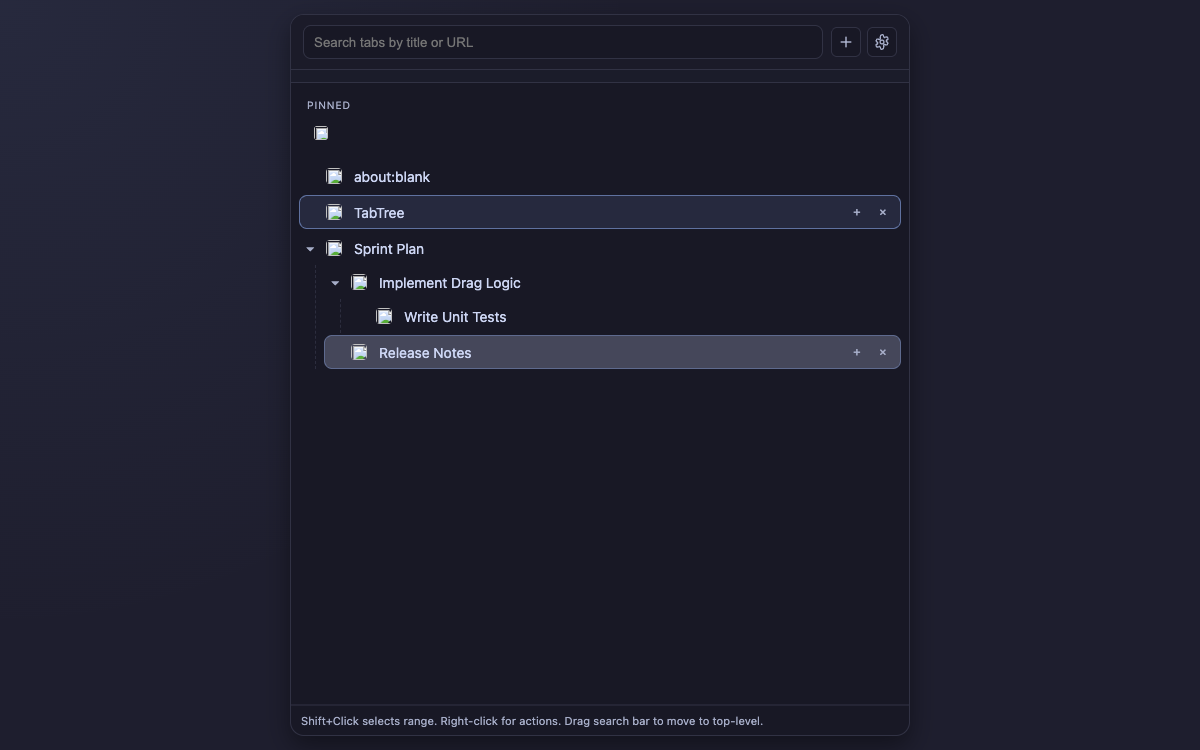
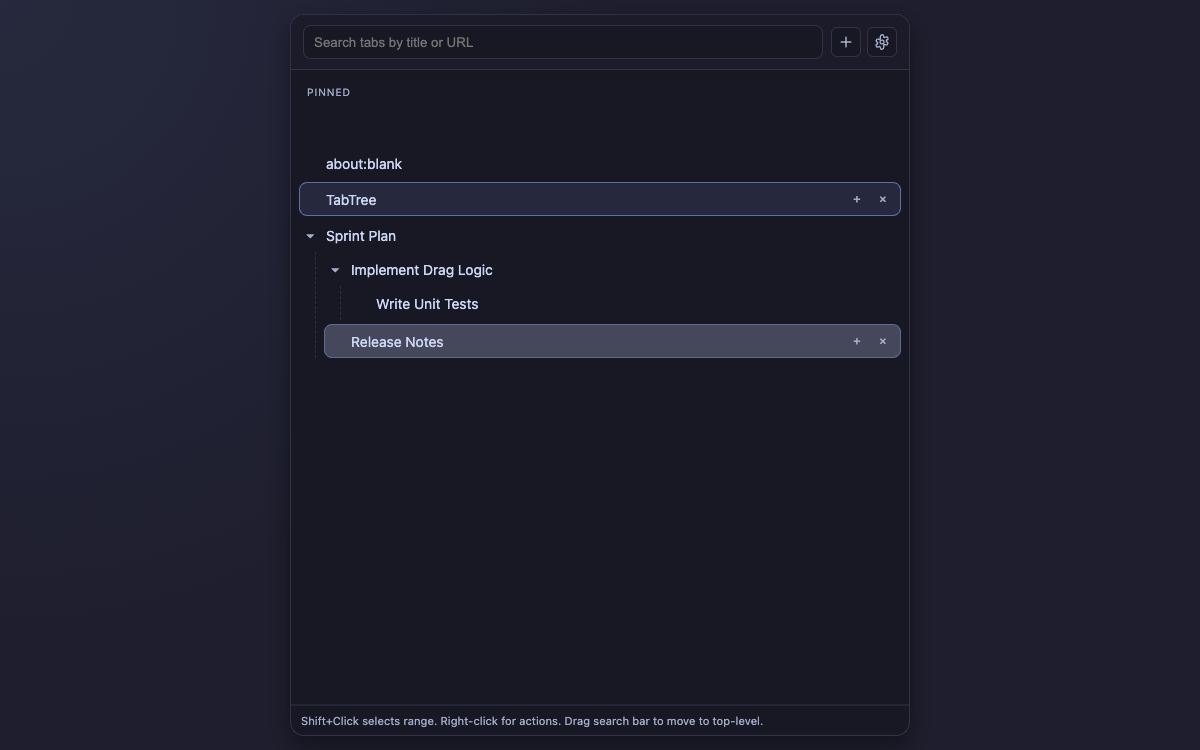
Simplify sidepanel by removing batch action bar

Changed region(s): [[0.2467, 0.2147, 0.7708, 0.4907], [0.2467, 0.092, 0.3083, 0.184]]

diff --git a/sidepanel/app.js b/sidepanel/app.js
@@ -347,11 +347,6 @@ const dom = {
   searchWrap: document.getElementById("search-wrap"),
   searchDropHint: document.getElementById("search-drop-hint"),
   addChildGlobal: document.getElementById("add-child-global"),
-  batchBar: document.getElementById("batch-bar"),
-  batchCount: document.getElementById("batch-count"),
-  batchClose: document.getElementById("batch-close"),
-  batchMoveRoot: document.getElementById("batch-move-root"),
-  batchGroupNew: document.getElementById("batch-group-new"),
   settingsPanel: document.getElementById("settings-panel"),
   openSettings: document.getElementById("open-settings"),
   closeSettings: document.getElementById("close-settings"),
@@ -522,7 +517,6 @@ function syncRenderedSelectionState() {
 function replaceSelection(tabIds, anchorTabId = null) {
   state.selectedTabIds = new Set(tabIds.filter((id) => Number.isFinite(id)));
   state.selectionAnchorTabId = anchorTabId;
-  updateBatchBar();
 }
 
 function toggleSelection(tabId) {
@@ -536,7 +530,6 @@ function toggleSelection(tabId) {
   } else if (!state.selectionAnchorTabId) {
     state.selectionAnchorTabId = tabId;
   }
-  updateBatchBar();
 }
 
 function selectRangeTo(tabId) {
@@ -668,39 +661,6 @@ function updateShortcutHint() {
     [],
     "Shift+Click selects range. Right-click for actions. Drag search bar to move to top-level."
   );
-}
-
-function updateBatchBar() {
-  const tree = currentWindowTree();
-  const selectedTabIds = selectedExistingTabIds(tree);
-  const count = selectedTabIds.length;
-  if (count <= 1) {
-    dom.batchBar.hidden = true;
-    dom.batchCount.textContent = "";
-    if (dom.batchClose) {
-      dom.batchClose.disabled = true;
-    }
-    if (dom.batchMoveRoot) {
-      dom.batchMoveRoot.disabled = true;
-    }
-    if (dom.batchGroupNew) {
-      dom.batchGroupNew.disabled = true;
-    }
-    return;
-  }
-
-  const hasGroupedTabs = selectedTabIds.some((tabId) => tree?.nodes[nodeId(tabId)]?.groupId !== null);
-  dom.batchBar.hidden = false;
-  dom.batchCount.textContent = t("selectedCount", [String(count)], `${count} selected`);
-  if (dom.batchClose) {
-    dom.batchClose.disabled = false;
-  }
-  if (dom.batchMoveRoot) {
-    dom.batchMoveRoot.disabled = false;
-  }
-  if (dom.batchGroupNew) {
-    dom.batchGroupNew.disabled = hasGroupedTabs;
-  }
 }
 
 function resolveContextScopeTabIds(primaryTabId) {
@@ -2885,7 +2845,6 @@ function render() {
   applyThemeFromSettings();
   hydrateSettingsForm();
   updateShortcutHint();
-  updateBatchBar();
   renderTree();
   renderContextMenu();
 }
@@ -3472,50 +3431,6 @@ function bindEvents() {
     await send(MESSAGE_TYPES.TREE_ACTION, {
       type: TREE_ACTIONS.ADD_CHILD_TAB,
       parentTabId: activeTabId
-    });
-  });
-
-  dom.batchClose?.addEventListener("click", async () => {
-    const tree = currentWindowTree();
-    const tabIds = selectedExistingTabIds(tree);
-    if (tabIds.length <= 1) {
-      return;
-    }
-    await requestClose(
-      {
-        kind: "batch-tabs",
-        tabIds
-      },
-      tabIds.length,
-      true
-    );
-  });
-
-  dom.batchMoveRoot?.addEventListener("click", async () => {
-    const tree = currentWindowTree();
-    const tabIds = selectedExistingTabIds(tree);
-    if (!tree || tabIds.length <= 1) {
-      return;
-    }
-    await send(MESSAGE_TYPES.TREE_ACTION, {
-      type: TREE_ACTIONS.BATCH_MOVE_TO_ROOT,
-      tabIds
-    });
-  });
-
-  dom.batchGroupNew?.addEventListener("click", async () => {
-    const tree = currentWindowTree();
-    const tabIds = selectedExistingTabIds(tree);
-    if (!tree || tabIds.length <= 1) {
-      return;
-    }
-    const hasGroupedTabs = tabIds.some((tabId) => tree.nodes[nodeId(tabId)]?.groupId !== null);
-    if (hasGroupedTabs) {
-      return;
-    }
-    await send(MESSAGE_TYPES.TREE_ACTION, {
-      type: TREE_ACTIONS.BATCH_GROUP_NEW,
-      tabIds
     });
   });
 

diff --git a/sidepanel/index.html b/sidepanel/index.html
@@ -51,36 +51,6 @@
         </div>
       </div>
 
-      <div id="batch-bar" class="batch-bar" hidden>
-        <span id="batch-count" class="batch-count"></span>
-        <div class="batch-actions">
-          <button
-            id="batch-close"
-            class="btn btn-danger"
-            type="button"
-            data-i18n="closeSelectedTabsGeneric"
-          >
-            Close selected tab(s)
-          </button>
-          <button
-            id="batch-move-root"
-            class="btn btn-ghost"
-            type="button"
-            data-i18n="moveSelectedToTopLevel"
-          >
-            Move selected to top-level
-          </button>
-          <button
-            id="batch-group-new"
-            class="btn btn-ghost"
-            type="button"
-            data-i18n="addToNewTabGroup"
-          >
-            Add to new tab group
-          </button>
-        </div>
-      </div>
-
       <section
         id="tree-root"
         class="tree-root"

diff --git a/tests/e2e/screenshots.spec.js b/tests/e2e/screenshots.spec.js
@@ -246,7 +246,7 @@ test.describe("README screenshots", () => {
     await sidePanelPage.screenshot({ path: screenshotPath("02-groups-and-colors-light.png") });
   });
 
-  test("captures multi-select and batch actions in dark theme", async ({ context, sidePanelPage }) => {
+  test("captures multi-select and context menu actions in dark theme", async ({ context, sidePanelPage }) => {
     await applyTheme(sidePanelPage, {
       scheme: "dark",
       lightPreset: "everforest-light",
@@ -272,9 +272,6 @@ test.describe("README screenshots", () => {
 
     await rowA.click();
     await rowC.click({ modifiers: ["Shift"] });
-
-    await expect(sidePanelPage.locator("#batch-bar")).toBeVisible();
-    await expect(sidePanelPage.locator("#batch-count")).toContainText("3");
 
     await rowC.click({ button: "right" });
     await expect(sidePanelPage.locator("#context-menu")).toBeVisible();

diff --git a/sidepanel/styles.css b/sidepanel/styles.css
@@ -171,31 +171,6 @@ button:focus-visible {
   pointer-events: none;
 }
 
-.batch-bar {
-  display: flex;
-  align-items: center;
-  justify-content: space-between;
-  gap: 8px;
-  padding: 6px 10px;
-  border-bottom: 1px solid var(--border);
-  background: color-mix(in srgb, var(--bg-elev), var(--accent-weak) 16%);
-}
-
-.batch-count {
-  color: var(--text-muted);
-  font-size: 0.78rem;
-}
-
-.batch-actions {
-  display: inline-flex;
-  gap: 6px;
-}
-
-.batch-actions .btn {
-  height: 26px;
-  font-size: 0.78rem;
-}
-
 .tree-root {
   flex: 1;
   overflow: auto;
